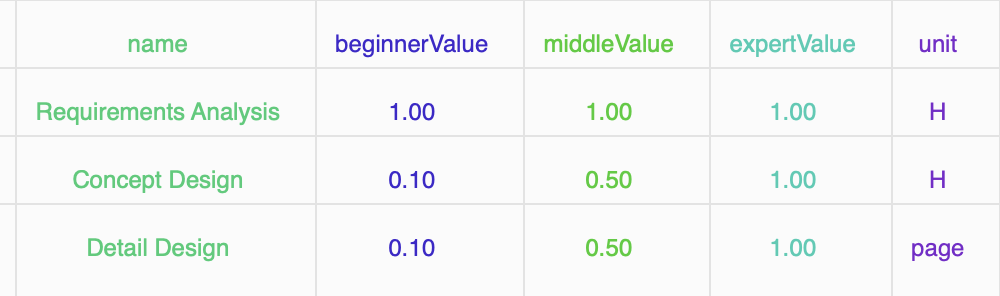
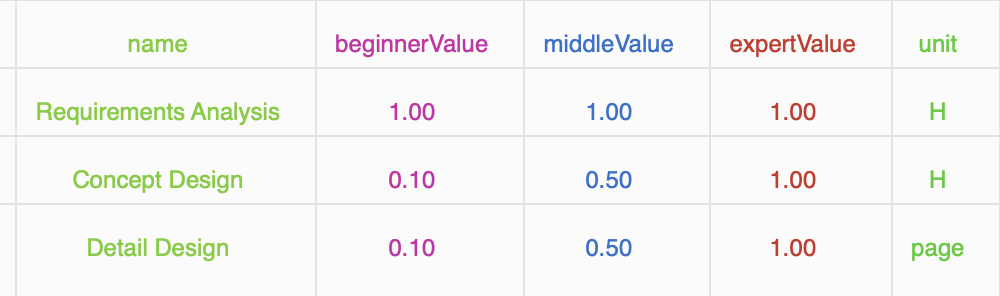
fix: Remove unused exportType parameter from loadFromDisk/loadFromNetwork

diff --git a/Csv2ImageApp/Csv2ImageApp/Views/GenerateOutputView/GenerateOutputModel.swift b/Csv2ImageApp/Csv2ImageApp/Views/GenerateOutputView/GenerateOutputModel.swift
@@ -79,9 +79,9 @@ class GenerateOutputModel: ObservableObject {
         do {
             switch fileType {
             case .local:
-                csv = try Csv.loadFromDisk(url, encoding: encoding, exportType: exportMode)
+                csv = try Csv.loadFromDisk(url, encoding: encoding)
             case .network:
-                csv = try Csv.loadFromNetwork(url, encoding: encoding, exportType: exportMode)
+                csv = try Csv.loadFromNetwork(url, encoding: encoding)
             }
         } catch {
             csv = await MainActor.run(body: {
